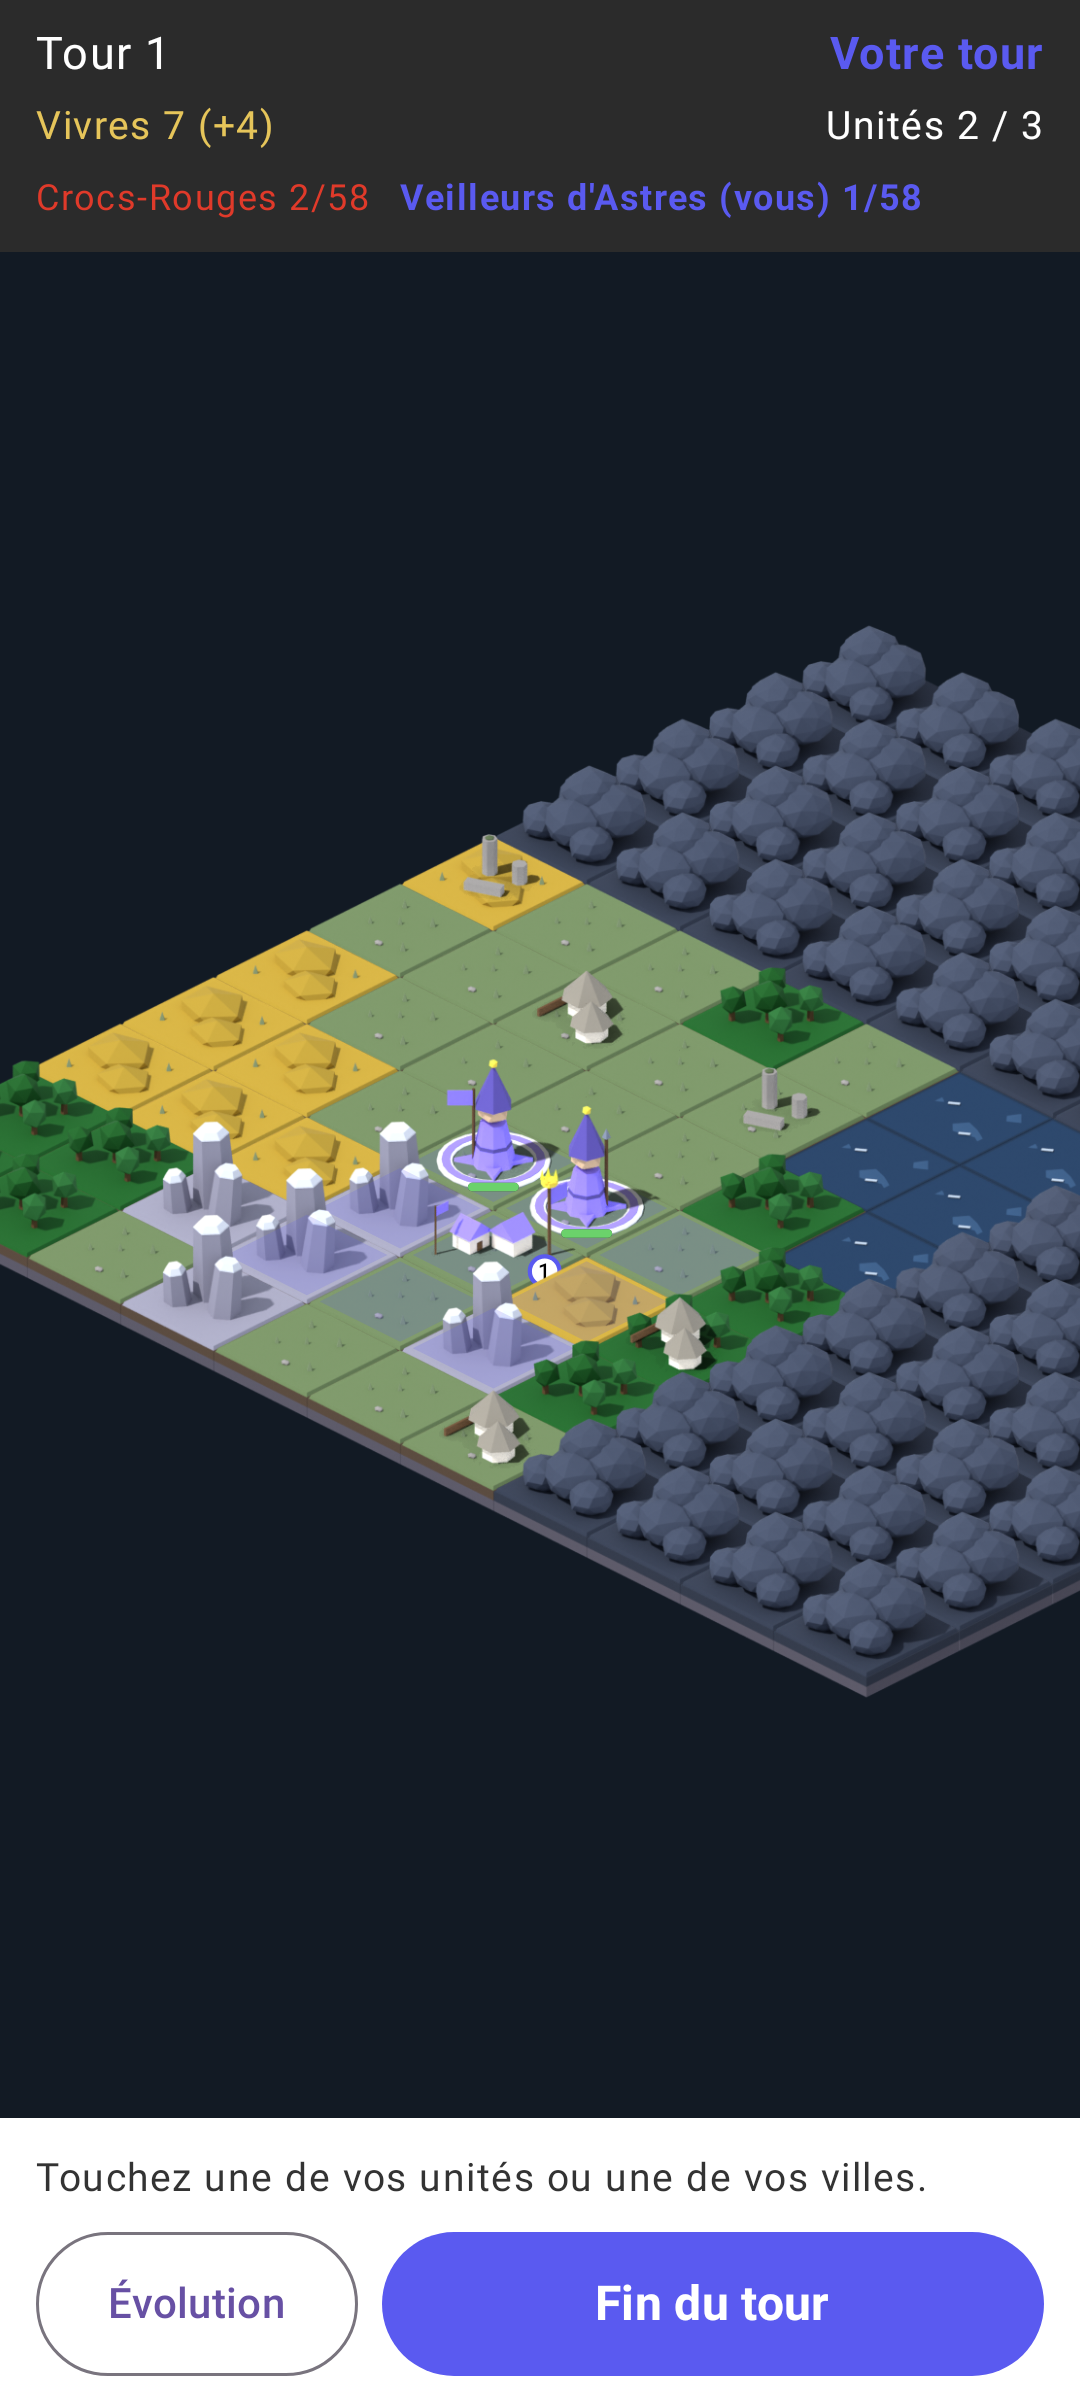
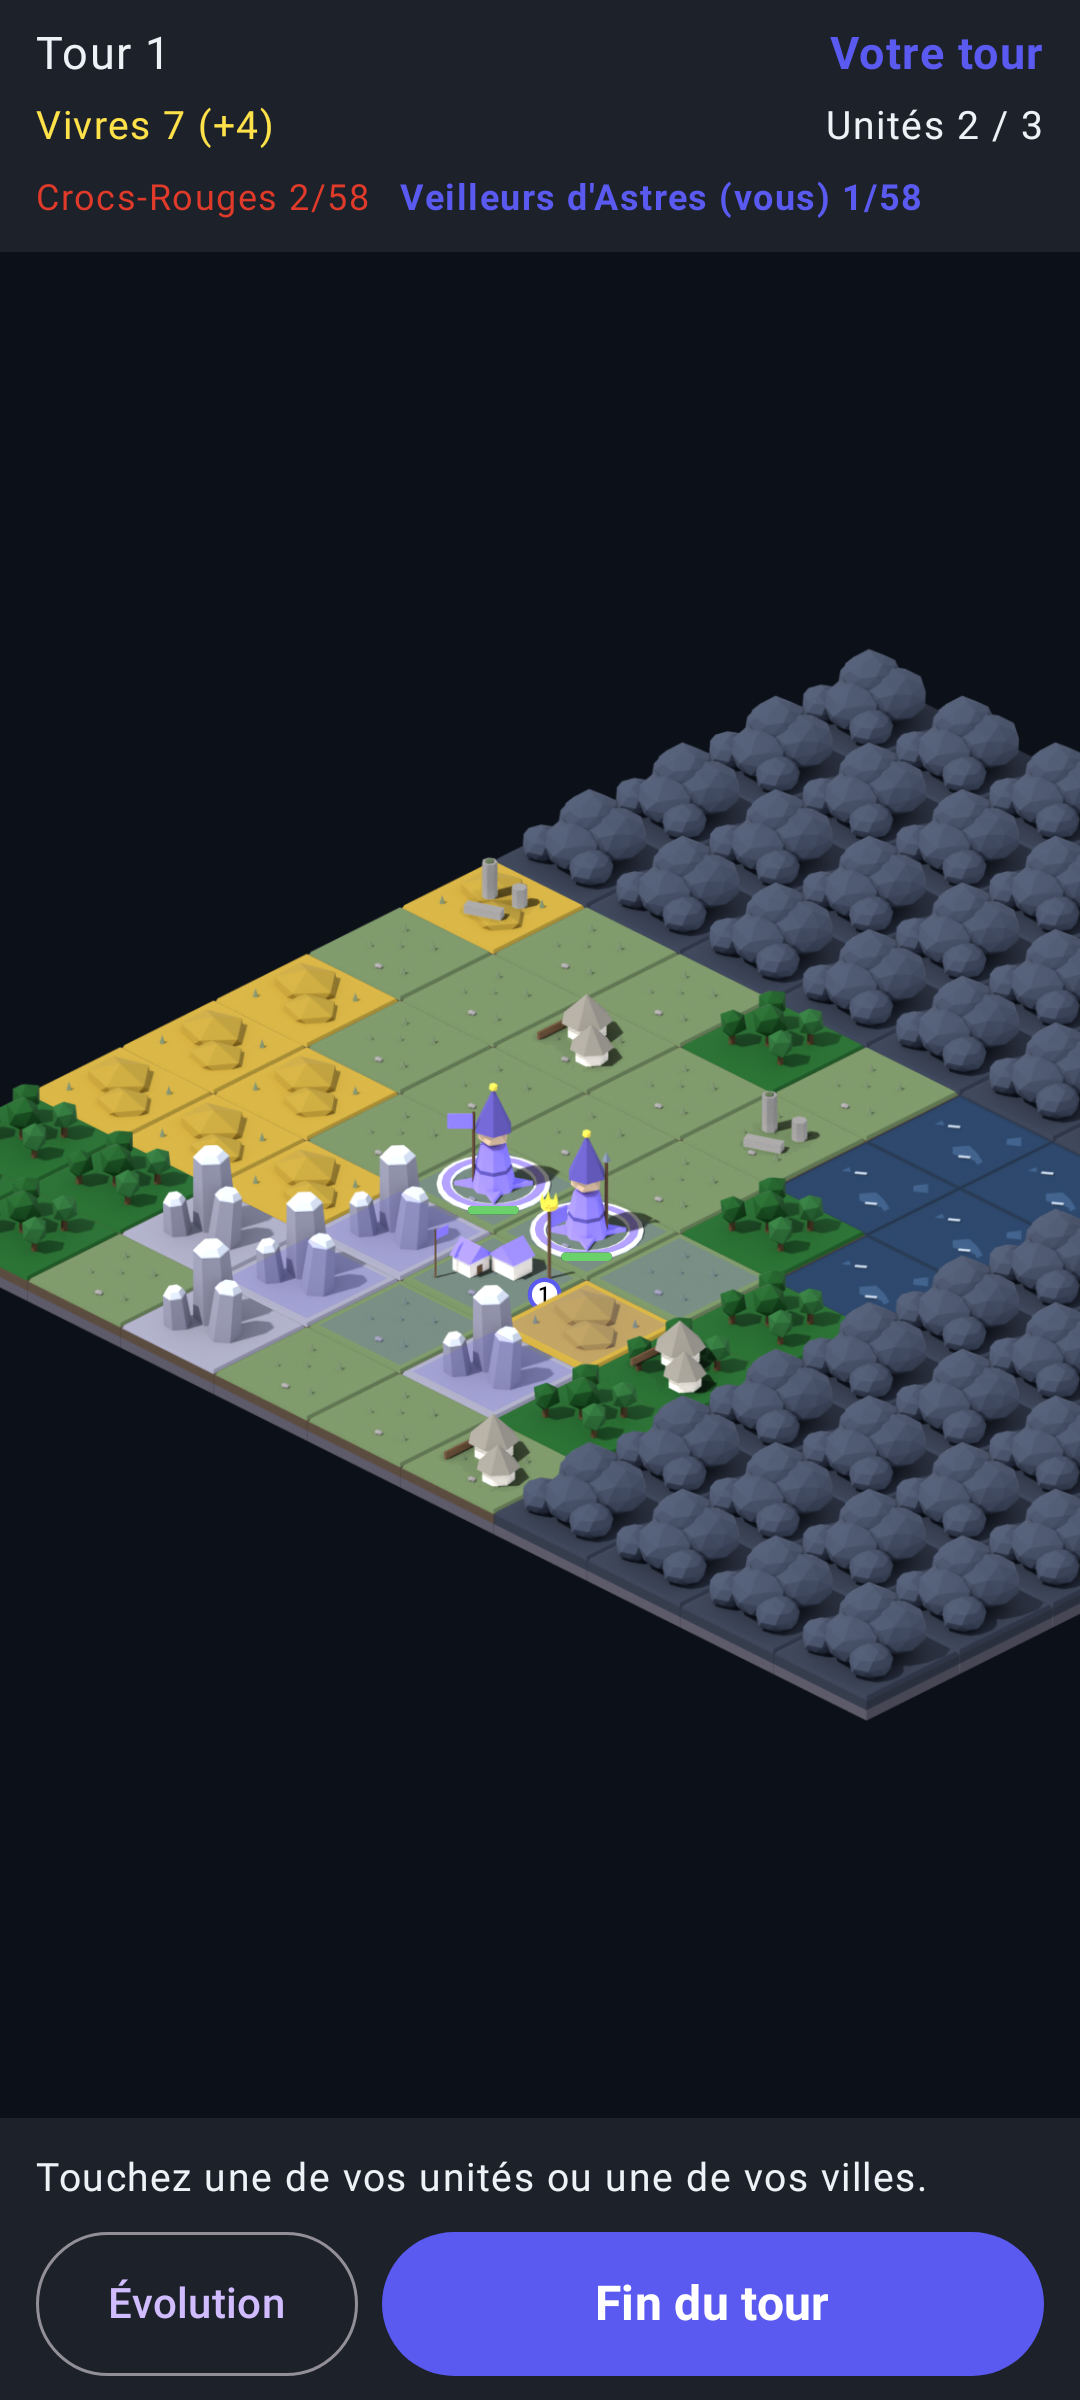
plateau : table kraft, panneaux jour et nuit du guide, cadrage qui couvre l'écran
Claude-Session: https://claude.ai/code/session_01EL3qoSH2aPunpMotVA9fo3

Changed region(s): [[0.0, 0.25, 1.0, 0.7188], [0.0, 0.875, 1.0, 1.0]]

diff --git a/app/src/main/kotlin/fr/jeu4x/app/plateau/EcranPartie.kt b/app/src/main/kotlin/fr/jeu4x/app/plateau/EcranPartie.kt
@@ -31,6 +31,8 @@ import androidx.compose.foundation.verticalScroll
 import androidx.compose.material3.Button
 import androidx.compose.material3.ButtonDefaults
 import androidx.compose.material3.OutlinedButton
+import androidx.compose.material3.MaterialTheme
+import androidx.compose.material3.darkColorScheme
 import androidx.compose.material3.Text
 import androidx.compose.runtime.Composable
 import androidx.compose.runtime.LaunchedEffect
@@ -78,8 +80,9 @@ import fr.jeu4x.app.moteur.Visibilite
  * (montagne en gris froid, colline ocre). Le style définitif revient à la session 6.
  */
 private object Teintes {
-    val fond = Color(0xFF3C5A3A)
-    val fondNuit = Color(0xFF121A24)
+    // Table sous le plateau (guide de S6, § 2) : papier kraft de jour, encre de nuit.
+    val fond = Color(0xFFE2C9A0)
+    val fondNuit = Color(0xFF0C1018)
     val barre = Color(0xFF2B2B2B)
     val plaine = Color(0xFFB9D98C)
     val foret = Color(0xFF5F9A55)
@@ -120,6 +123,12 @@ fun couleurClan(clan: Clan) = when (clan) {
     Clan.VENTS_ERRANTS -> Color(0xFF2FB8D0)
 }
 
+/** Encre posée sur la couleur d'un clan (guide de S6, § 2) : blanc, ou brun très foncé sur les clans clairs. */
+private fun encreClan(clan: Clan?): Color = when (clan) {
+    Clan.MURAILLIERS, Clan.VENTS_ERRANTS -> Color(0xFF2B2118)
+    else -> Color.White
+}
+
 fun couleurJoueur(etat: Etat, joueur: Int): Color = etat.joueurs.getOrNull(joueur)?.let { couleurClan(it.clan) } ?: Color.White
 
 @Composable
@@ -132,6 +141,15 @@ private val CODE_UNITE = listOf("eclaireur", "lancier", "archer", "cavalier", "c
 private val CODE_TERRAIN = listOf("P", "F", "C", "M", "E")
 private val CODE_EXPLOITATION = listOf("cueillette", "champ", "carriere")
 
+
+/** Couleurs des barres et panneaux (guide de S6, § 2, « Interface »), selon le mode du téléphone (D-33). */
+private class Interface(val panneau: Color, val texte: Color, val secondaire: Color, val or: Color)
+
+private val INTERFACE_JOUR = Interface(Color(0xFFFFFFFF), Color(0xFF1C1E24), Color(0xFF555B66), Color(0xFFB07A0A))
+private val INTERFACE_NUIT = Interface(Color(0xFF1C212A), Color(0xFFEEF1F5), Color(0xFFA9B1BD), Color(0xFFFFE14A))
+
+@Composable
+private fun teintesInterface() = if (isSystemInDarkTheme()) INTERFACE_NUIT else INTERFACE_JOUR
 
 @Composable
 fun EcranPartie(affichage: Affichage, vm: PartieViewModel) {
@@ -153,11 +171,12 @@ fun EcranPartie(affichage: Affichage, vm: PartieViewModel) {
 private fun BarreHaut(a: Affichage) {
     val e = a.etat
     val nomCourant = nomJoueur(e, e.joueurCourant)
-    Column(Modifier.fillMaxWidth().background(Teintes.barre).padding(horizontal = 12.dp, vertical = 6.dp)) {
+    val ui = teintesInterface()
+    Column(Modifier.fillMaxWidth().background(ui.panneau).padding(horizontal = 12.dp, vertical = 6.dp)) {
         Row(Modifier.fillMaxWidth(), verticalAlignment = Alignment.CenterVertically, horizontalArrangement = Arrangement.SpaceBetween) {
             Text(
                 if (e.tour >= 70) stringResource(R.string.partie_tour_limite, e.tour, e.limiteTours) else stringResource(R.string.partie_tour, e.tour),
-                color = Color.White, fontSize = 15.sp,
+                color = ui.texte, fontSize = 15.sp,
             )
             Text(
                 if (e.joueurCourant == a.humain) stringResource(R.string.partie_votre_tour) else stringResource(R.string.partie_tour_de, nomCourant),
@@ -165,15 +184,15 @@ private fun BarreHaut(a: Affichage) {
             )
         }
         Row(Modifier.fillMaxWidth(), horizontalArrangement = Arrangement.SpaceBetween) {
-            Text(stringResource(R.string.partie_vivres, e.vivres, e.revenu), color = Teintes.champ, fontSize = 13.sp)
-            Text(stringResource(R.string.partie_unites, e.nbMesUnites, e.entretien), color = Color.White, fontSize = 13.sp)
+            Text(stringResource(R.string.partie_vivres, e.vivres, e.revenu), color = ui.or, fontSize = 13.sp)
+            Text(stringResource(R.string.partie_unites, e.nbMesUnites, e.entretien), color = ui.texte, fontSize = 13.sp)
         }
         Row(Modifier.fillMaxWidth().horizontalScroll(rememberScrollState()), horizontalArrangement = Arrangement.spacedBy(10.dp)) {
             e.joueurs.forEachIndexed { j, info ->
                 val nom = nomJoueur(e, j) + if (j == a.humain) " (" + stringResource(R.string.partie_vous) + ")" else ""
                 Text(
                     "$nom ${info.score}/${e.seuil}" + if (info.annonce) " !" else "",
-                    color = if (info.elimine) Color.Gray else couleurJoueur(e, j),
+                    color = if (info.elimine) ui.secondaire else couleurJoueur(e, j),
                     fontSize = 12.sp,
                     fontWeight = if (j == e.joueurCourant) FontWeight.Bold else FontWeight.Normal,
                 )
@@ -190,7 +209,10 @@ private fun BarreHaut(a: Affichage) {
 private fun PanneauBas(a: Affichage, vm: PartieViewModel) {
     val e = a.etat
     val nomsUnites = stringArrayResource(R.array.noms_unites)
-    Column(Modifier.fillMaxWidth().background(Color.White).padding(horizontal = 12.dp, vertical = 8.dp)) {
+    val nuit = isSystemInDarkTheme()
+    // De nuit, le panneau passe en sombre ; les boutons suivent avec le jeu de couleurs sombre de Material.
+    MaterialTheme(colorScheme = if (nuit) darkColorScheme() else MaterialTheme.colorScheme) {
+    Column(Modifier.fillMaxWidth().background(teintesInterface().panneau).padding(horizontal = 12.dp, vertical = 8.dp)) {
         val attaque = a.attaque
         val choisie = a.choisie?.let { e.uniteSur(it) }
         val ville = a.villeChoisie?.let { e.villeSur(it) }
@@ -263,16 +285,17 @@ private fun PanneauBas(a: Affichage, vm: PartieViewModel) {
                 enabled = a.tourHumain,
                 modifier = Modifier.weight(1f).height(48.dp).testTag("bouton-tour"),
                 shape = RoundedCornerShape(24.dp),
-                colors = ButtonDefaults.buttonColors(containerColor = couleurJoueur(a.etat, a.humain)),
+                colors = ButtonDefaults.buttonColors(containerColor = couleurJoueur(a.etat, a.humain), contentColor = encreClan(a.etat.joueurs.getOrNull(a.humain)?.clan)),
             ) {
                 Text(stringResource(R.string.partie_fin_du_tour), fontSize = 16.sp, fontWeight = FontWeight.Bold)
             }
         }
     }
+    }
 }
 
 @Composable
-private fun Texte(t: String) = Text(t, fontSize = 13.sp, color = Color(0xFF333333))
+private fun Texte(t: String) = Text(t, fontSize = 13.sp, color = teintesInterface().texte)
 
 @OptIn(ExperimentalLayoutApi::class)
 @Composable

diff --git a/app/src/test/kotlin/fr/jeu4x/app/plateau/PerspectiveTest.kt b/app/src/test/kotlin/fr/jeu4x/app/plateau/PerspectiveTest.kt
@@ -2,6 +2,7 @@ package fr.jeu4x.app.plateau
 
 import org.junit.Assert.assertEquals
 import org.junit.Assert.assertNull
+import org.junit.Assert.assertTrue
 import org.junit.Test
 
 class PerspectiveTest {
@@ -44,22 +45,34 @@ class CadrageTest {
     private val p = Perspective(taille = 11, demiLargeur = 44f)
 
     @Test
-    fun `le lancement grossit deux fois et centre les unites`() {
-        val unites = listOf(0 to 0, 1 to 0, 2 to 0)
+    fun `le lancement grossit deux fois et centre des unites au milieu du plateau`() {
+        val unites = listOf(4 to 5, 5 to 5, 6 to 5)
         val (e, dx, dy) = p.cadrageSur(unites, 1080f, 1700f)
         assertEquals(p.echelleEnsemble(1080f, 1700f) * 2f, e, 1e-4f)
-        // Le centre moyen des unités tombe au milieu de la vue.
-        val (cx, cy) = p.centre(1, 0)
+        val (cx, cy) = p.centre(5, 5)
         assertEquals(540f, cx * e + dx, 1f)
         assertEquals(850f, cy * e + dy, 1f)
     }
 
     @Test
-    fun `au changement de tour le zoom reste et la vue se centre sur l'autre joueur`() {
+    fun `au bord du plateau la vue glisse peu et les unites restent dans le tiers central`() {
+        val unites = listOf(0 to 0, 1 to 0, 2 to 0)
+        val (e, dx, dy) = p.cadrageSur(unites, 1080f, 1700f)
+        val (cx, cy) = p.centre(1, 0)
+        val x = cx * e + dx
+        val y = cy * e + dy
+        assertTrue(x in 360f..720f && y in 566f..1134f)
+        // Le plateau couvre davantage la vue qu'avec un centrage strict.
+        val l = p.limites()
+        val vide = { d: Float, debut: Float, fin: Float, vue: Float -> maxOf(0f, debut * e + d) + maxOf(0f, vue - (fin * e + d)) }
+        assertTrue(vide(dx, l[0], l[2], 1080f) + vide(dy, l[1], l[3], 1700f) < vide(540f - cx * e, l[0], l[2], 1080f) + vide(850f - cy * e, l[1], l[3], 1700f))
+    }
+
+    @Test
+    fun `au changement de tour le zoom reste et la vue suit l'autre joueur`() {
         val rouges = listOf(10 to 10, 9 to 10, 8 to 10)
         val (dx, dy) = p.decalagePour(rouges, 1080f, 1700f, 3f)
         val (cx, cy) = p.centre(9, 10)
-        assertEquals(540f, cx * 3f + dx, 1f)
-        assertEquals(850f, cy * 3f + dy, 1f)
+        assertTrue(cx * 3f + dx in 360f..720f && cy * 3f + dy in 566f..1134f)
     }
 }

diff --git a/app/src/main/kotlin/fr/jeu4x/app/plateau/Perspective.kt b/app/src/main/kotlin/fr/jeu4x/app/plateau/Perspective.kt
@@ -64,11 +64,24 @@ class Perspective(val taille: Int, val demiLargeur: Float, val demiHauteur: Floa
         return Triple(echelle, dx, dy)
     }
 
-    /** Décalage qui met le centre moyen des cases au milieu de la vue, à l'échelle donnée (D-21). */
+    /**
+     * Décalage pour voir les cases données (D-20, D-21) : leur centre moyen part du milieu de la vue,
+     * puis la vue glisse au plus d'un sixième de sa taille pour que le plateau couvre l'écran
+     * (pas de grand vide quand les unités sont au bord du plateau).
+     */
     fun decalagePour(cases: List<Pair<Int, Int>>, largeur: Float, hauteur: Float, echelle: Float): Pair<Float, Float> {
         val centres = if (cases.isEmpty()) listOf(centre((taille - 1) / 2, (taille - 1) / 2)) else cases.map { (x, y) -> centre(x, y) }
         val cx = centres.map { it.first }.average().toFloat()
         val cy = centres.map { it.second }.average().toFloat()
-        return largeur / 2f - cx * echelle to hauteur / 2f - cy * echelle
+        val l = limites()
+        val dx = ajuster(largeur / 2f - cx * echelle, l[0] * echelle, l[2] * echelle, largeur)
+        val dy = ajuster(hauteur / 2f - cy * echelle, l[1] * echelle, l[3] * echelle, hauteur)
+        return dx to dy
+    }
+
+    /** Sur un axe : `ideal` rapproché de la plage où le plateau [debut, fin] couvre la vue, de vue/6 au plus. */
+    private fun ajuster(ideal: Float, debut: Float, fin: Float, vue: Float): Float {
+        val couvrant = if (fin - debut >= vue) ideal.coerceIn(vue - fin, -debut) else (vue - debut - fin) / 2f
+        return couvrant.coerceIn(ideal - vue / 6f, ideal + vue / 6f)
     }
 }

diff --git a/docs/environnement/JOURNAL.md b/docs/environnement/JOURNAL.md
@@ -2,6 +2,16 @@
 
 > Entrée la plus récente en haut. On ne modifie ni ne supprime une entrée passée.
 
+## 2026-11-28 · Couleurs du guide de S6 et cadrage (consigne de la maître, essai 0.1.20)
+
+Claude, session S1.
+
+- Table sous le plateau : kraft #E2C9A0 de jour, #0C1018 de nuit (guide S6 § 2).
+- Barre du haut et panneau du bas : blancs avec texte #1C1E24 de jour ; #1C212A avec texte #EEF1F5 de nuit. Boutons du panneau en jeu sombre Material de nuit. Encre de « Fin du tour » : brun #2B2118 sur Murailliers et Vents-Errants, blanc ailleurs.
+- Cadrage (D-20, D-21) : on part du centre des unités, puis la vue glisse d'au plus un sixième de l'écran pour que le plateau couvre mieux la vue. Les unités restent dans le tiers central. Tests de `CadrageTest` réécrits en conséquence.
+- Disposition « Pouce » (D-27) non touchée : elle attend les retours de jeu de l'utilisateur.
+- Tests Kotlin verts ; captures de jour et de nuit regardées.
+
 ## 2026-11-28 · Essai 0.1.19 publié (sprites 3D, merveilles, anneau)
 
 Claude, session S1.
